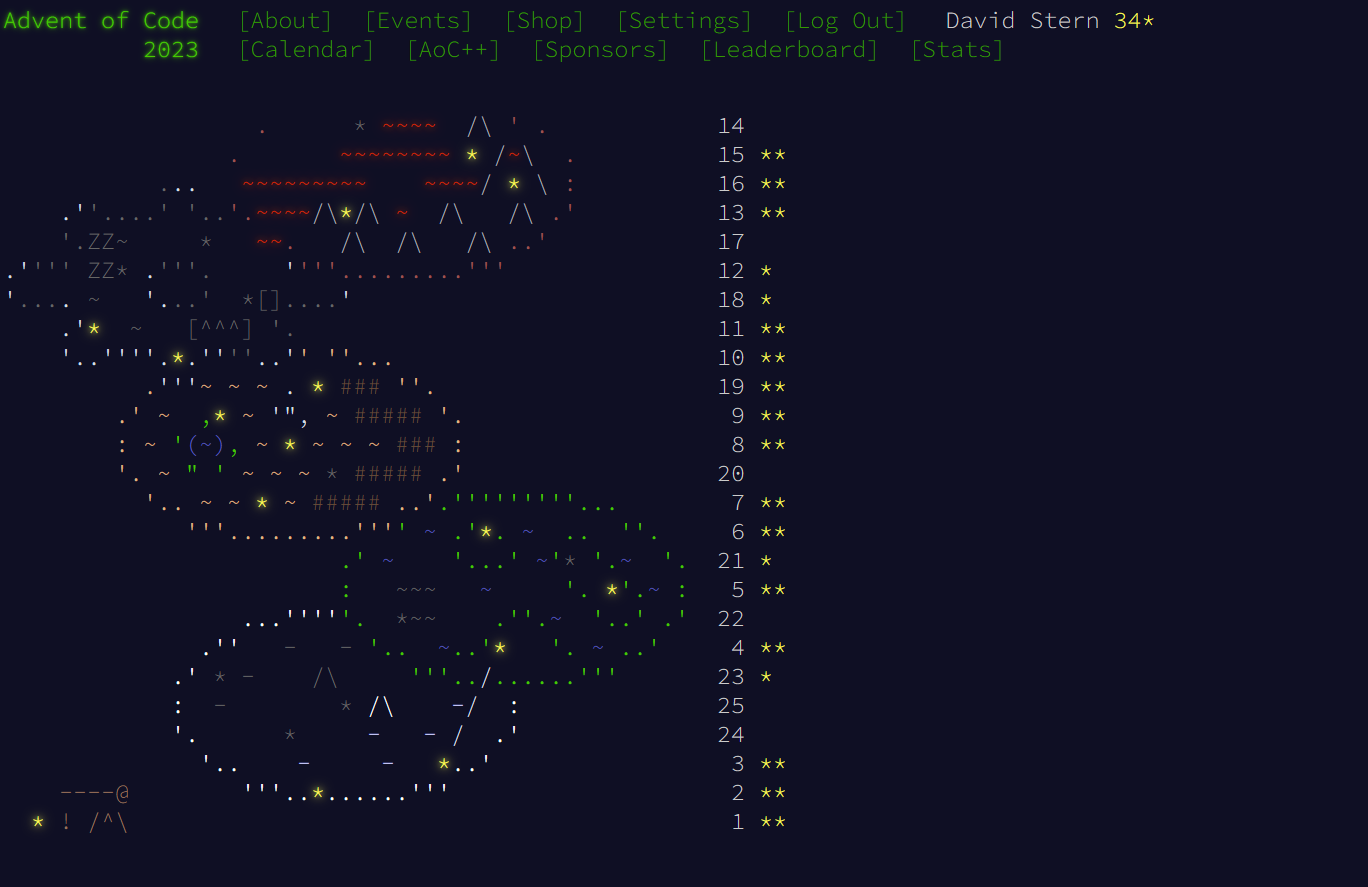
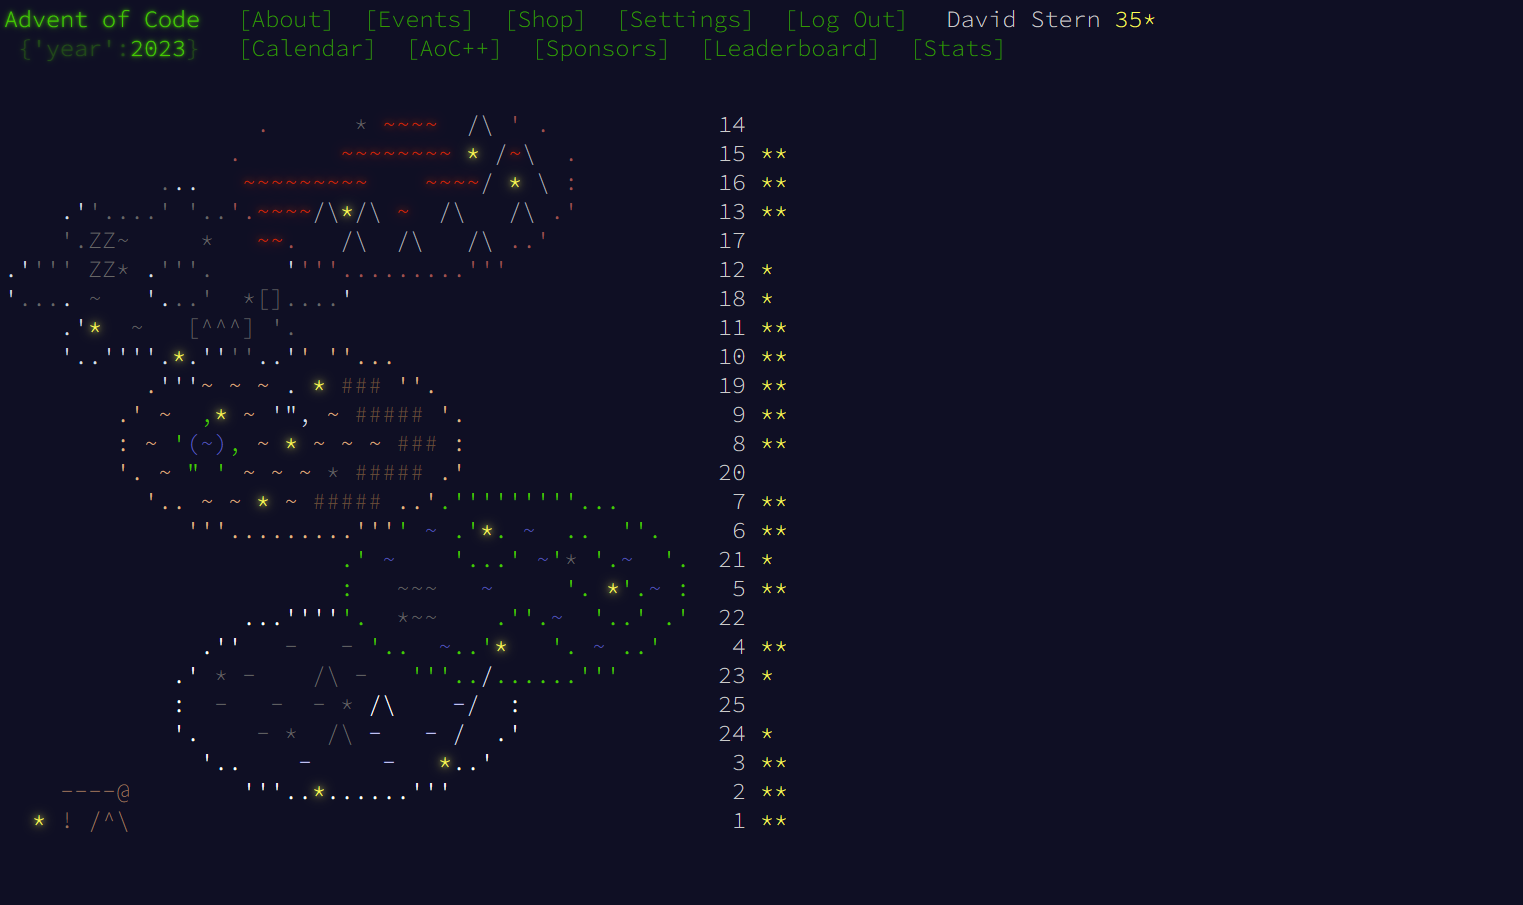
updated screenshot

diff --git a/README.md b/README.md
@@ -1,6 +1,6 @@
 ### General Description
 
-I am working through the Advent of Code challenges for 2023, as can be found [here](https://adventofcode.com/2023). All solutions are either in Python or Rust. I currently have 34 stars. Each day's challenge has two parts. Each day's solution can be found in that day's particular file (for example, day 15 would be found in `day15.rs`).
+I am working through the Advent of Code challenges for 2023, as can be found [here](https://adventofcode.com/2023). All solutions are either in Python or Rust. I currently have 35 stars. Each day's challenge has two parts. Each day's solution can be found in that day's particular file (for example, day 15 would be found in `day15.rs`).
 
 ![Latest Dashboard](./advent_dashboard.png)
 
